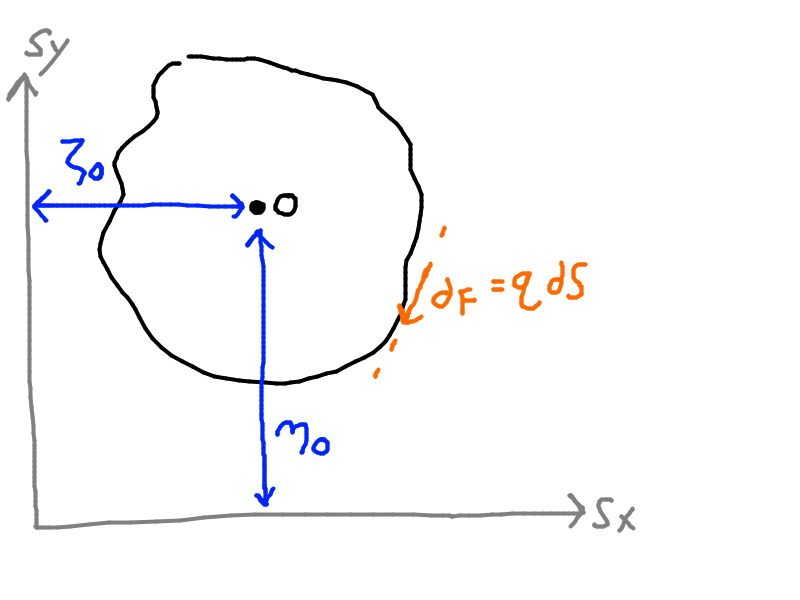
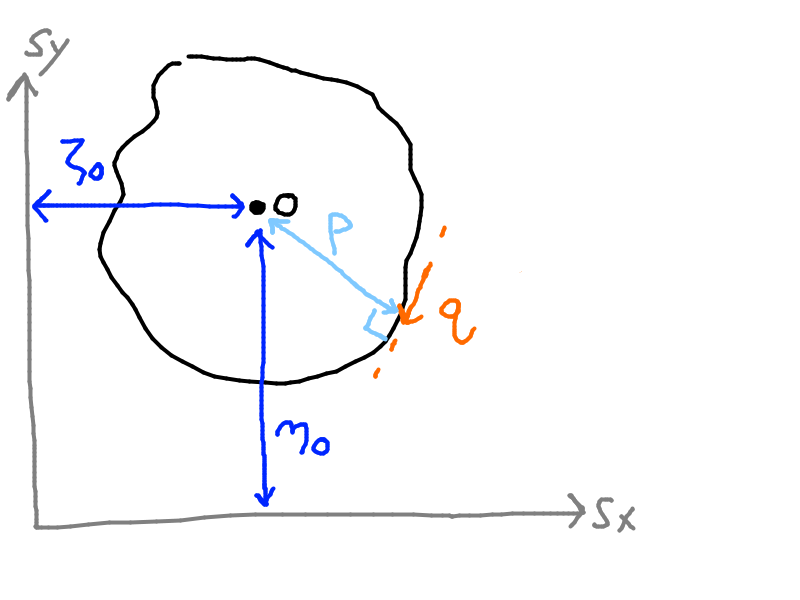
shearflowexmaple

Changed region(s): [[0.3125, 0.33, 0.5, 0.57], [0.5938, 0.42, 0.75, 0.54], [0.5312, 0.48, 0.5938, 0.57]]

diff --git a/Structures/ShearFlowExample.md b/Structures/ShearFlowExample.md
@@ -1,0 +1,240 @@
+![](L12-3.png)
+
+**RTF: $q_s$ distribution.**
+
+We note that the shape is singly-symmetric:
+- $\therefore I_{xy} = 0$
+
+First, find $I_{xx}$.
+- $I_{xx} = I_\textrm{semi-circle} + I_\textrm{wall 2-3} + I_\textrm{wall 3-4} + I_\textrm{wall 4-5}$
+
+Since the top and bottom walls are symmetric:
+- $I_{xx} = I_\textrm{semi-circle} + 2I_\textrm{top wall} + I_\textrm{wall 3-4}$
+
+
+- $I_{xx} = \left(\dfrac{\pi t r^3}{2}\right)_\textrm{semi-circle} + \left( \dfrac{2rt^3}{12} + 2rt(r^2)\right)_\textrm{top wall} + \left( \dfrac{(2r)^3 t}{12} + 2rt(0) \right)_\textrm{wall 3-4}$
+
+For the top wall, the first term is neglected because it has a higher order of thickness. For the second term, the distance from point 6 to the X axis is zero, so tha term drops out. We are left with:
+- $I_{xx} = \left(\dfrac{\pi t r^3}{2}\right) + \left(2rt(r^2)\right) + \left( \dfrac{(2r)^3 t}{12}\right)$
+
+Solving, we get:
+- $I_{xx} = 6.24 tr^3$ 
+
+<br>
+
+We can write the equation for $q_s$ and plug in $I_{xx}$ and simplify:
+
+- $q_s = -0.16 \dfrac{S_y}{r^3} \int \limits_0 ^S yds + q_{s,0}$
+
+# Step 1: Calculate $q_b$:
+
+Because it's singly symmetric, the shear center will lie somewhere on the X axis. Therefore we do not need to find $S_x$, and we say $S_x = 0$. Since $I_{xy} = 0$ as well, the equation for $q_s$ simplies to:
+- $q_s = -\dfrac{S_y}{I_{xx}} \int \limits_0^S tyds + q_{s,0}$
+
+Due to the equation simplification, the only moment of inertia needed is $I_{xx}$, so we don't have to calculate $I_{yy}$.
+
+Substituting in $I_{xx}$ gives:
+- $q_s = -0.16 \dfrac{S_y}{r^3} \int \limits_0 ^S yds + q_{s,0}$
+
+
+## Wall 1-2 (Curve)
+First look at Wall 1-2:
+
+![](L12-4.png)
+
+- We replace $y \rightarrow r \sin \theta$ and $dS \rightarrow r d\theta$
+- We note that $q_{s, 0} = 0$ since we start at the virtual cut where $q = 0$
+- $q_{b, 12} = -0.16 \dfrac{S_y}{r^3} \int \limits_0 ^{\pi/2} (r\sin \theta) (rd\theta) + 0$
+- $q_{b, 12} = -0.16 \dfrac{S_y}{r} \int \limits_0 ^{\pi/2} \sin \theta d\theta$
+- $q_{b, 12} = 0.16 \dfrac{S_y}{r} \cos \theta |_0^\theta$
+
+Final equation:
+- $q_{b, 12} = 0.16 \dfrac{S_y}{r} (\cos \theta - 1)$
+
+Then we substitute in each point.
+- Point 1: $\theta = 0 \Rightarrow q_{b,1} = 0$
+- Point 2: $\theta = \dfrac{\pi}{2} \Rightarrow q_{b,2} = -0.16 \dfrac{S_y}{r}$
+
+<br> <br> <br>
+
+## Wall 2-3 (Horizontal)
+
+We do the same with Wall 2-3 now. The $y$ coordinate for any point in this wall is $r$.
+
+![](L12-5.png)
+
+- $y = r$, $x = S$
+- We also have to add in the effects of $q_{b,12}$ since it immediately precedes wall 2-3 (wall 2-3 connects to point 2 which was solved, and so the two values must match each other)
+- $q_{b, 23} = -0.16 \dfrac{S_y}{r^3} \int \limits_0^S rdS + q_{b, 12}$
+- $q_{b, 23} = -0.16 \dfrac{S_y}{r^3} \int \limits_0^S rdS -0.16 \dfrac{S_y}{r}$
+- $q_{b, 23} = -0.16 \dfrac{S_y}{r^2}S_1 - 0.16 \dfrac{S_y r}{r^2}$
+
+Final equation:
+- $q_{b, 23} = -0.16 \dfrac{S_y}{r^2}\left(S_1 + r\right)$
+
+Then we check points 2, 3:
+- Point 2: $S_1 = 0 \Rightarrow q_{b, 2} = -0.16 \dfrac{S_y}{r}$
+  - This is the same as the value for point 2 we calculated previously, which confirms our answer.
+- Point 3: $S_1 = 2r \Rightarrow q_{b, 3}=-0.48 \dfrac{S_y}{r}$
+
+![](L12-6.png)
+
+This is the Basic Shear Flow $q_b$ up to this point, including the curve and the top & bottom walls.
+
+Because the shape is perfectly symmetrical about its horizontal axis, we can draw in the shear flow distribution on the bottom of the shape as well (points 1-5-4), based on the value of the top (points 1-2-3). The vertical wall, 3-4, is covered next.
+
+<br> <br> <br>
+
+## Wall 3-4 (Vertical)
+
+For the vertical wall (Wall 34):
+
+![](L13-1.png)
+
+Here, $y = r - S_2$, with $S_2 = 0$ at point 3 and $S_2 = 2r$ at point 4.
+
+- $q_{b, 34} = -0.16 \dfrac{S_y}{r} \int ydS + q_{b,3}$
+
+- $q_{b, 34} = -0.16 \dfrac{S_y}{r^2} \int_0^{S_2} (r - S_2)dS_2 - 0.48 \dfrac{S_y}{r}$
+
+- $q_{b, 34} = -0.16 \dfrac{S_y}{r} \left (S_2 r - \dfrac{S_2^2}{2}  \right ) - 0.48 \dfrac{S_y}{r}$
+
+Then factoring these terms together into one bracket:
+- $q_{b, 34} = -0.16 \dfrac{S_y}{r^3} \left(0.5 S_2^2 - rS_2 + 3r^2 \right )$
+
+At point 3 (Top):
+- $S_2 = 0 \Rightarrow q_{b,3} = -0.48 \dfrac{S_y}{r}$
+
+At point 6 (Middle):
+- $S_2 = r \Rightarrow q_{b, 6} = -0.56 \dfrac{S_y}{r}$
+
+Because we have $S_2^2$ and we see that it's negative on both ends we note that it is a parabola and we can find the root/zero.
+
+# Step 2 - Calculate qs,0
+
+![](L12-2.png)
+
+The image above is helpful in understanding what each component of the formula is.
+- $0 = \oint p q_b dS + 2A q_{s, 0}$
+- $p$ is the perpendicular distance, from the origin axis (in this case the X axis) to the shear flow.
+- $q_b$ is the basic shear flow calculated in Step 1.
+- $A$ is the area enclosed by the mid-line, NOT the cross-sectional area.
+- $q_{s, 0}$ is the unknown shear flow and is what we are solving for.
+
+We can take advantage of symmetry and only integrate for the top half of the shape, and the multiply it by two to complete the shape.
+
+Integrating each segment is simpler and easier to understand. Then they are combined at the end.
+
+## Wall 1-2 (Curve)
+
+We need $\oint (p) (q_b)(dS)$ for segment 1-2
+- Along the curve, the shear force acts tangentially, at a constant distance $r$ from the center. This gives us $p = r$
+- We know $dS = rd\theta$ along the curve.
+- We know $q_b = 0.16 \dfrac{S_y}{r} (cos \theta - 1)$ from Step 1.
+
+Combining these:
+- $\int_0^{\frac{\pi}{2}}(r) 0.16 \dfrac{S_y}{r} \left(\cos \theta - 1 \right)r d\theta$
+- $0.16 S_y \int_0^{\frac{\pi}{2}} (\cos \theta - 1 )rd\theta$
+- $0.16 S_yr \int_0^{\frac{\pi}{2}} (\cos \theta - 1 )d\theta$
+- $0.16 S_y r \sin \theta - \theta$ -------- from $\theta=0$ to $\pi/2$
+- $0.16 S_y r (\sin \frac{\pi}{2} - \frac{\pi}{2} - (\sin 0 - 0))$
+- $0.16 S_y r (\sin \frac{\pi}{2} - \frac{\pi}{2})$
+
+Final result:
+- $-0.0916 S_y r$
+
+## Wall 2-3 (Horizontal)
+
+We need $\oint (p) (q_b)(dS)$ for segment 2-3
+- Along the horizontal wall 2-3, the shear force acts horizontally at a constant distance $r$ from the horizontal axis.
+- Here $dS = dS$ since we don't have any angles involved.
+- $q_b = -0.16 \dfrac{S_y}{r} (\dfrac{S}{r} + 1) = -0.16 \dfrac{S_y}{r^2} (S + r)$ 
+
+Combining these:
+- $\int_0^{2r} (r) 0.16 \dfrac{S_y}{r^2}(S + r)dS$
+- $0.16 \dfrac{S_y}{r} \int_0^{2r} (S + r)dS$
+- $0.16 \dfrac{S_y}{r} \left(\dfrac{S^2}{2} + rS\right)$ ------ from $S = 0$ to $2r$
+- $0.16 \dfrac{S_y}{r} \left(\dfrac{4r^2}{2} + 2r^2\right)$
+- $0.16 \dfrac{S_y}{r} r^2 (2 + 2)$
+- $0.64 S_y r$
+
+This should be $-0.64 S_y r$. Why is it negative? TODO
+
+## Wall 3-4 (Vertical)
+
+We need $\oint (p) (q_b)(dS)$ for segment 3-4
+- Along the vertical wall 34, the shear force acts vertically at a constant distance $2r$ from the center of the circle. 
+- Since the shear force acts vertically, $p$ will be the horizontal distance, so $p = 2r$
+- $dS = dS$ since we don't have any angles involved.
+- We integrate from $0\rightarrow r$ and not $2r$ because we want only half of this segment, so that when we double it at the end we end up with the whole shape. If we did $2r$ we would be including too much.
+- $q_b = -0.16 \dfrac{S_y}{r^3} \left(rS - 0.5S^2 + 3r^2 \right)$
+
+Combining these:
+- $\int_0^r \left( (2r) (-0.16 \dfrac{S_y}{r^3} (rS - 0.5S^2 + 3r^2)\right)dS$
+- $-0.32 \dfrac{S_y}{r^2} \int_0^r \left(rS - 0.5S^2 + 3r^2\right)dS$
+- $-0.32 \dfrac{S_y}{r^2} \left(r \dfrac{S^2}{2} - 0.5 \dfrac{S^3}{3} + 3r^2S\right)$ ---- from $S = 0$ to $r$
+- $-0.32 \dfrac{S_y}{r^2} \left(\dfrac{r^3}{2} - 0.5 \dfrac{r^3}{3} + 3r^3 \right)$
+- $-1.067 S_y r$
+
+
+## Wall 1-2 + Wall 2-3 + Half of Wall 3-4
+
+Now combining these, we get:
+- $\oint pq_bdS = -0.0916 S_y r - 0.64 S_y r - 1.067 S_y r$
+- $\oint pq_bdS = -1.7986 S_y r$
+
+The original equation is:
+- $0 = 2(\oint p q_b dS + 2A q_{s, 0})$
+- $0 = 2(-1.7986 S_y r + 2A q_{s, 0})$
+
+Remember that we double it since it's symmetrical, but since the equation is equal to zero we can drop the constant $2$.
+- $0 = -1.7986 S_y r + 2A q_{s, 0}$
+
+But now what is A??
+
+## Area
+
+Remember, A here is NOT the cross-sectional area. It's the area enclosed by the mid-line. It's essentially the cross-sectional area **IF** this was a solid cross-section and not a thin beam (BUT IT ISN'T, KEEP THAT IN MIND!)
+- $A = A_{semi-circle} + A_{rectangle}$
+- $A = \dfrac{\pi r^2}{2} + (2r)(2r)$
+- $A = \dfrac{\pi r^2}{2} + 4r^2$
+- $A = 5.57r^2$
+
+## Solve for qs0
+
+The original equation is:
+- $0 = \oint p q_b dS + 2A q_{s, 0}$
+
+Pluigging in what we have found thus far:
+- $0 = -1.7986 S_y r + 2(5.57r^2) q_{s, 0}$
+
+Solving for $q_{s, 0}$:
+- $q_{s, 0} = \dfrac{1.7986\times S_y r}{2\times5.57r^2}$
+- $q_{s, 0} = 0.165 \dfrac{S_y}{r}$
+
+This should be $0.32 \dfrac{S_y}{r}$, why do they get rid of the $2$ in $(2Aq_{s, 0})$ ??? TODO
+
+# Step 3: qs = qb + qs0
+
+![](L13-2.png)
+
+We solve it in terms of each side.
+
+First, the curve (12)
+- $q_s = q_b + q_{s, 0}$
+- $q_{s. 12} = 0.16 \dfrac{S_y}{r} (\cos \theta - 1) + 0.32 \dfrac{S_y}{r}$
+- $q_{s, 12} = 0.16 \dfrac{S_y}{r} (\cos \theta + 1)$
+
+Then the top (23)
+- $q_{s, 23} = -0.16 \dfrac{S_y}{r} \left ( \dfrac{S_1}{r} + 1 \right ) + 0.32 \dfrac{S_y}{r}$
+- $q_{s, 23} = 0.16 \dfrac{S_y}{r} \left ( 2 - 1 - \dfrac{S_1}{r} \right)$
+- $q_{s, 23} = 0.16 \dfrac{S_y}{r} \left ( 1 - \dfrac{S_1}{r} \right)$
+
+Finally the vertical edge (34)
+- $q_{s, 34} = 0.16 \dfrac{S_y}{r^2} \left (0.5 S_2^2 - rS_2 - r^2 \right)$
+
+![](L13-3.png)
+
+As a sanity check look at the figure above. The result of the calculations should verify that this condition is true.
+
+This example will likely be on the midterm. It will also appear in the tutorial. A solution is found in the textbook but it's not as comprehensive as the professor's.

diff --git a/Structures/Lecture13.md b/Structures/Lecture13.md
@@ -90,7 +90,7 @@ We place the axis in p.0
 
 We can take advantage of symmetry and only integrate for one half (up to $\frac{\pi}{2})$, and then multiply it by two.
 - Along the curve, the shear force acts tangentially, at a constant distance $r$ from the center.
-- Along the vertical wall 34, the shear force acts vertically at a constant distance $$
+- Along the vertical wall 34, the shear force acts vertically at a constant distance $2r$ from the center of the circle.
 - $0 = 2 \left[ \int_0^{\frac{\pi}{2}}0.16 \dfrac{S_y}{r} \left(\cos \theta - 1 \right) rd\theta -   \int_0^{2r} r \left[ 0.16 \dfrac{S_y}{r^2} (S_1 + r) \right]dS_1  - \int 2r \left[ 0.16 \dfrac{S_y}{r^3} (0.5S_2^2 - rS_2 + 3r^2)dS_2 \right] + 2\left(\dfrac{\pi r^2}{2} + (2r \times 2r) \right ) \right]$
 
 Now we solve each integration and simplify.

diff --git a/Structures/Structures_Index.md b/Structures/Structures_Index.md
@@ -14,3 +14,7 @@ You can access each of the lectures for Aerospace Structures here.
 - [Lecture 12](./Lecture12.md)
 - [Lecture 13](./Lecture13.md)
 - [Lecture 14](./Lecture14.md)
+
+Regarding the midterm, some useful notes can be found below.
+
+- [Shear Flow Example (more in-depth)](./ShearFlowExample.md)
